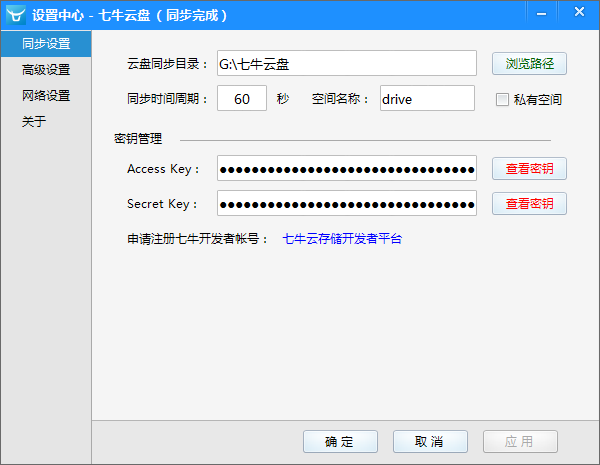
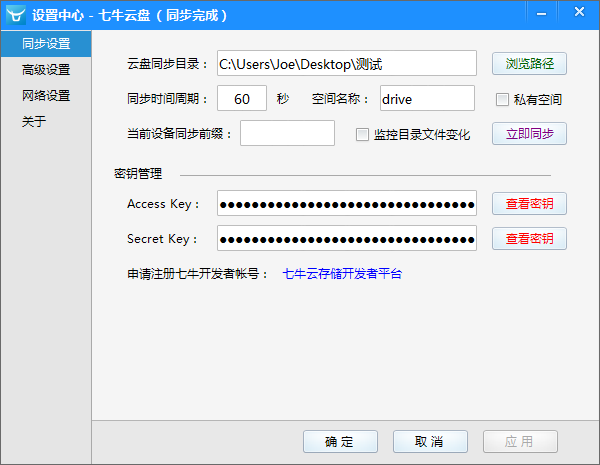
V0.1.5

diff --git a/FrmMain.cs b/FrmMain.cs
@@ -112,8 +112,8 @@ namespace QiNiuDrive
     {
         #region 常量
         private const string APP_NAME = "七牛云盘";              // 软件名称
-        private const string APP_VER = "v0.1.4";                // 软件版本
-        private const int UPDATE_VERSION = 201312030;           // 更新版本
+        private const string APP_VER = "v0.1.5";                // 软件版本
+        private const int UPDATE_VERSION = 201312040;           // 更新版本
         public const string APP_CFG_PATH = "Config\\app.ini";   // 软件配置路径
         private const int TITLE_HEIGHT = 30;                    // 标题栏高度
         private const int MENU_WIDTH = 90;                      // 菜单栏宽度
@@ -610,7 +610,7 @@ namespace QiNiuDrive
         // 文件监视器捕捉到重命名事件
         private void mFileWatcher_Renamed(object source, RenamedEventArgs e)
         {
-            if (mIsSyncing) return;
+            if (mIsSyncing || !mIsCaptureChanges) return;
 
             // 判断是否为目录改名
             if (Directory.Exists(e.FullPath))
@@ -663,7 +663,7 @@ namespace QiNiuDrive
                 wb.Headers.Add("Cache-Control", "no-cache");
                 var dict =
                     JsonConvert.DeserializeObject<Dictionary<string, dynamic>>(
-                        wb.DownloadString("https://github.com/Unknwon/qiniudrive/blob/master/VERSION.json"));
+                        wb.DownloadString("https://raw.github.com/Unknwon/qiniudrive/master/VERSION.json"));
                 if (UPDATE_VERSION < (int)dict["version"])
                 {
                     CharmMessageBox msgbox = new CharmMessageBox();
@@ -962,6 +962,11 @@ namespace QiNiuDrive
                 mIsPrivateBucket = true;
                 mSyncSettingCharmControls[4].Checked = true;
             }
+            else
+            {
+                mIsPrivateBucket = false;
+                mSyncSettingCharmControls[4].Checked = false;
+            }
 
             // 获取同步前缀
             mPrefix = IniOperation.ReadValue(APP_CFG_PATH, "setting", "prefix");
@@ -974,6 +979,12 @@ namespace QiNiuDrive
                 mIsCaptureChanges = true;
                 mSyncSettingCharmControls[5].Checked = true;
             }
+            else
+            {
+                mIsCaptureChanges = false;
+                mSyncSettingCharmControls[5].Checked = false;
+            }
+
 
             // 获取密钥
             if (File.Exists("Config/KEY"))
@@ -1109,7 +1120,7 @@ namespace QiNiuDrive
             // 获取本地文件列表
             LoadLocalFiles("");
 
-            // 获取本地文件缓存
+            //// 获取本地文件缓存
             if (File.Exists("Data/file_cache_list"))
             {
                 mLocalFileCache.Clear();
@@ -1134,15 +1145,15 @@ namespace QiNiuDrive
                         continue;
                     }
 
-                    RedrawStatusText("正在删除（上行）..." + cacheName);
-                    CallRet cr = mRsClient.Delete(new EntryPath(mBucket, cacheName));
-                    if (!cr.OK)
-                    {
-                        if (!cr.Exception.Message.Contains("612"))
-                            RedrawStatusText("删除失败..." + cacheName);
-                    }
-                    else
-                        Thread.Sleep(1000);
+                    //RedrawStatusText("正在删除（上行）..." + cacheName);
+                    //CallRet cr = mRsClient.Delete(new EntryPath(mBucket, cacheName));
+                    //if (!cr.OK)
+                    //{
+                    //    if (!cr.Exception.Message.Contains("612"))
+                    //        RedrawStatusText("删除失败..." + cacheName);
+                    //}
+                    //else
+                    //    Thread.Sleep(1000);
                 }
             }
 
@@ -1155,7 +1166,7 @@ namespace QiNiuDrive
 
             while (isHasMore)
             {
-                DumpRet dr = mRsfClient.ListPrefix(mBucket, "", marker);
+                DumpRet dr = mRsfClient.ListPrefix(mBucket, mPrefix, marker);
 
                 // 存储文件到服务器文件列表
                 foreach (DumpItem item in dr.Items)
@@ -1178,24 +1189,24 @@ namespace QiNiuDrive
 
                 if (index == -1)
                 {
-                    RedrawStatusText("正在下载..." + mServerFileList[i].Name);
-                    if (!DownloadFile("http://" + mBucket + ".u.qiniudn.com/" + mServerFileList[i].Name,
-                         curServeFileName, unixTime))
-                        RedrawStatusText("下载失败..." + mServerFileList[i].Name);
+                    //RedrawStatusText("正在下载..." + mServerFileList[i].Name);
+                    //if (!DownloadFile("http://" + mBucket + ".u.qiniudn.com/" + mServerFileList[i].Name,
+                    //     curServeFileName, unixTime))
+                    //    RedrawStatusText("下载失败..." + mServerFileList[i].Name);
                 }
                 else if (mServerFileList[i].Timestamp > mLocalFileList[index].Timestamp)
                 {
-                    RedrawStatusText("正在更新..." + mServerFileList[i].Name);
-                    if (!DownloadFile("http://" + mBucket + ".u.qiniudn.com/" + mServerFileList[i].Name,
-                         curServeFileName, unixTime))
-                        RedrawStatusText("更新失败..." + mServerFileList[i].Name);
+                    //RedrawStatusText("正在更新..." + mServerFileList[i].Name);
+                    //if (!DownloadFile("http://" + mBucket + ".u.qiniudn.com/" + mServerFileList[i].Name,
+                    //     curServeFileName, unixTime))
+                    //    RedrawStatusText("更新失败..." + mServerFileList[i].Name);
                     mLocalFileList.RemoveAt(index);
                 }
                 else if (mServerFileList[i].Timestamp < mLocalFileList[index].Timestamp)
                 {
                     RedrawStatusText("正在上传..." + mServerFileList[i].Name);
                     mIsDonePut = false;
-                    PutFile(mServerFileList[i].Name, mSyncDir + "\\" + mServerFileList[i].Name, true);
+                    PutFile(mPrefix + mServerFileList[i].Name, mSyncDir + "\\" + mServerFileList[i].Name, true);
                     WaitUntilTure(mIsDonePut);
                     if (mPutRet.OK)
                         // ReSharper disable once PossibleLossOfFraction
@@ -1221,16 +1232,16 @@ namespace QiNiuDrive
                 // 存在缓存列表中说明已经上传过，因此属删除操作
                 if (FindLocalCacheIndex(sf.Name) > -1)
                 {
-                    RedrawStatusText("正在删除（下行）..." + sf.Name);
-                    File.Delete(mSyncDir + "\\" + sf.Name);
-                    continue;
+                    //RedrawStatusText("正在删除（下行）..." + sf.Name);
+                    //File.Delete(mSyncDir + "\\" + sf.Name);
+                    //continue;
                 }
 
                 if (IsNeedFilter(sf.Name)) continue;
 
                 RedrawStatusText("正在上载..." + sf.Name);
                 mIsDonePut = false;
-                PutFile(sf.Name.Replace("\\", "/"), mSyncDir + "\\" + sf.Name);
+                PutFile(mPrefix + sf.Name.Replace("\\", "/"), mSyncDir + "\\" + sf.Name);
                 WaitUntilTure(mIsDonePut);
                 if (mPutRet.OK)
                     // ReSharper disable once PossibleLossOfFraction
@@ -1333,7 +1344,7 @@ namespace QiNiuDrive
         private int FindLocalFileIndex(string name)
         {
             for (int i = 0; i < mLocalFileList.Count; i++)
-                if (mLocalFileList[i].Name.Equals(name))
+                if (mLocalFileList[i].Name.Equals(name.TrimStart(mPrefix.ToCharArray())))
                     return i;
             return -1;
         }

diff --git a/README.md b/README.md
@@ -4,16 +4,11 @@
 
 七牛云盘是基于七牛开放 API 构建的第三方同步程序。
 
-## 停止维护
-
-我在使用两天后发现七牛云存储会将数据缓存较长一段，因此只有首次同步才能得到正确的结果。后续的上传操作虽然依旧能够成功，但下载需要等待很久才能废除缓存（强制清空本地缓存也不行），所以七牛云存储可以作为数据存储服务，但想要基于它改造成同步网盘目前看来没有可能，因此本项目将不再继续维护。
-
-我将开启新的旅程。
-
-## 软件功能（v0.1.3）
+## 软件功能（v0.1.5）
 
 - [更新日志](https://github.com/Unknwon/qiniudrive/wiki/%E6%9B%B4%E6%96%B0%E6%97%A5%E5%BF%97)
-- 自动对指定目录与七牛云存储空间的文件进行 **双向** 同步。
+- 自定义同步目录并进行单向上传同步。
+- 支持对每个设备单独设置前缀，避免覆盖及帮助识别。
 - 支持设置 `Config/filter.txt` 进行文件过滤。
 	- `*/.git/*` 表示包含过滤。
 	- `*.txt` 表示后缀过滤。
@@ -23,8 +18,6 @@
 ## 注意事项
 
 - 当前版本仅支持文件或目录的 **重命名** 事件捕捉，如果文件或目录发生 **移动** 操作，则会先删除，再上传。
-- 由于本软件与七牛云存储非 C/S 架构，**不可用** 于实时性要求高的任务。
-- 由于七牛云存储的未知原因，删除操作可能存在 1 秒左右的缓存，因此 **删除操作被迫暂停 1 秒** 后继续执行拉取文件列表，否则会删除失败。
 - 书写文件过滤规则时，目录分割符均为 `/`。
 - 默认忽略所有隐藏文件、以 `.tmp` 结尾的文件。
 
@@ -37,9 +30,8 @@
 - 同步周期：为节省 API 调用次数，软件根据用户指定周期（默认为 60 秒）进行文件差异判断，因此如果您在不同设备间进行同步，务必人为确保完成同步后，再修改其它设备上的文件。
 - 差异判断：通过文件最后修改时间完成差异判断，因此如果您通过其它手段非正常你不能  修改文件时间后可能会导致同步结果无法预料。
 - 文件删除：每次同步完成后会将本地文件建立缓存列表并保存至 `Data/file_cache_list`。因此，您对该文件的任何非法改动都可能将导致您的数据意外丢失！
-	- 本地删除：在同步开始前，将缓存列表与新的本次文件列表进行对比，从而找出被删除项。
 	- 云端删除：判断是需要上传还是其它设备将文件删除，也是依靠本地缓存列表判断的。如果已存在缓存列表中，则说明该文件已经与云端完成同步，此时发现云端文件被删除，既表示是从其它设备进行删除操作；反之，则表示未进行过同步，需要上传。
-- 文件重命名：为节省 API 调用次数，在软件运行时采用事件捕捉机制，在同步时使用批量移动操作统一重命名。如果您在未启动软件时重命名文件或目录，则会导致软件进行先删除，再上传操作。文件重命名后，其它终端无法捕获事件通知，因此将会执行本地删除，然后下载操作。
+- 文件重命名：为节省 API 调用次数，在软件运行时采用事件捕捉机制，在同步时使用批量移动操作统一重命名。如果您在未启动软件时重命名文件或目录，则会导致软件进行先删除，再上传操作。
 
 ## 界面预览
 
